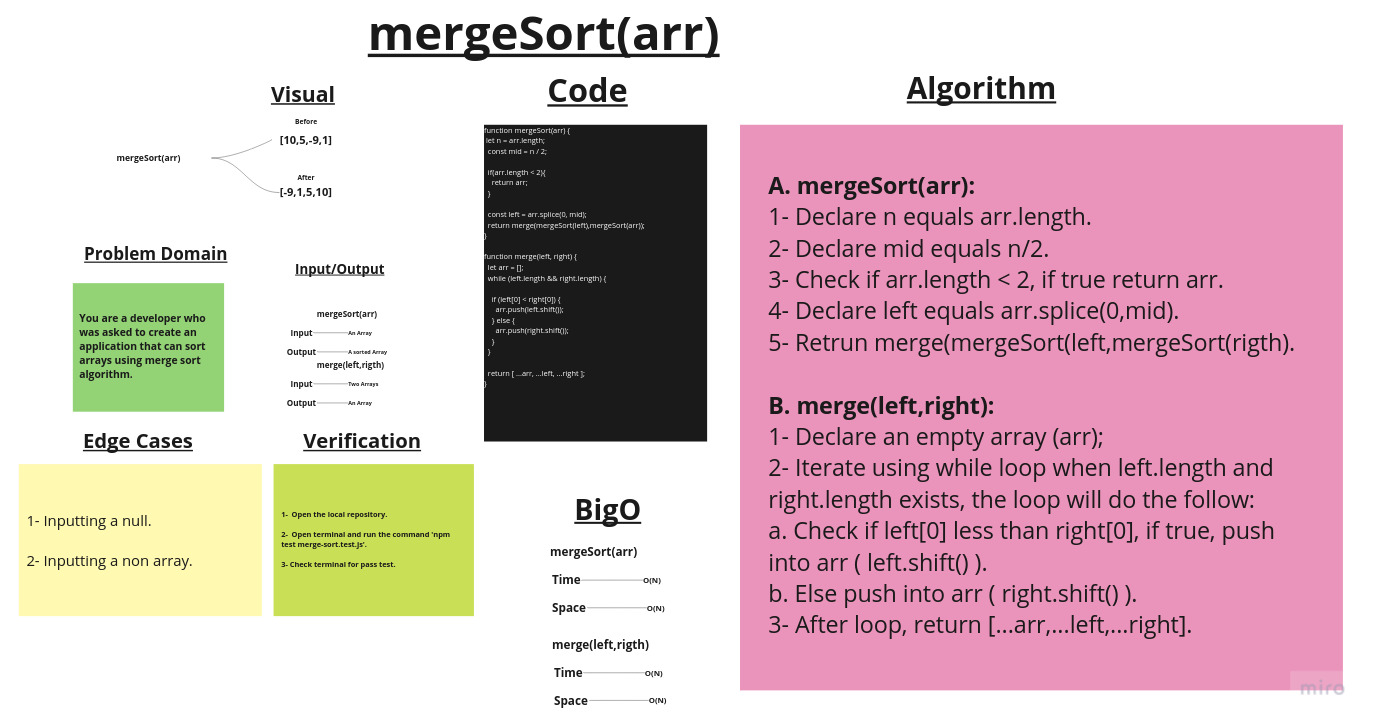
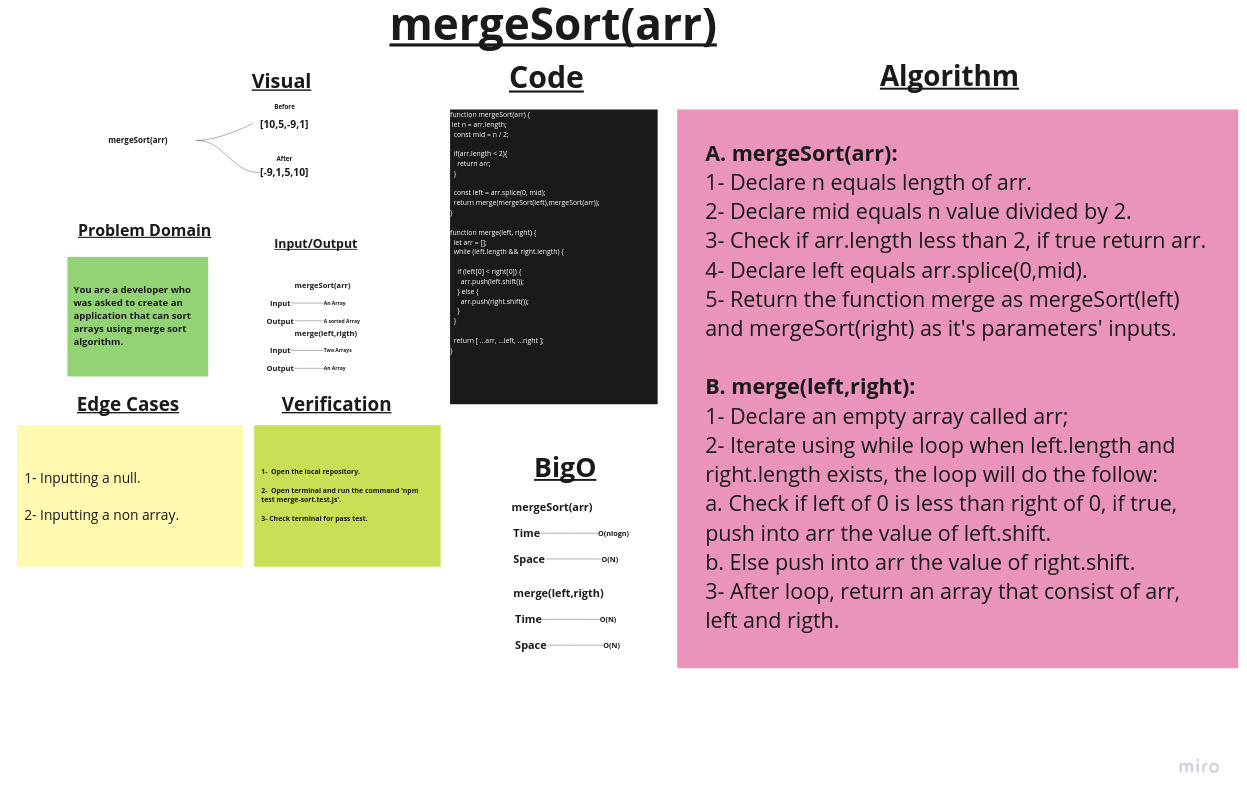
fixed complixity and updated whiteboard for merge sort

diff --git a/challenges/Sort/merge-sort/readme.md b/challenges/Sort/merge-sort/readme.md
@@ -10,11 +10,11 @@ Create two functions that work together to sort arrays using merge sort algorith
 
 ## Approach & Efficiency
 
-1. ***mergeSort(arr)*** ->         Time:  O(N).
-                                   Space: O(N)
+1. ***mergeSort(arr)*** ->         Time:  O(nlogn).
+                                   Space: O(N).
 
 2. ***merge(left,rigth)*** ->      Time:  O(N).
-                                   Space: O(N)
+                                   Space: O(N).
 
 ## Solution
 

diff --git a/challenges/Sort/merge-sort/Blog.md b/challenges/Sort/merge-sort/Blog.md
@@ -67,7 +67,7 @@ In computer science, merge sort is an efficient, general-purpose, and comparison
 
 ## Efficency
 
-1. ***mergeSort(arr)*** ->         Time:  O(N).
+1. ***mergeSort(arr)*** ->         Time:  O(nlogn).
                                    Space: O(N).
 
 2. ***merge(left,rigth)*** ->      Time:  O(N).
